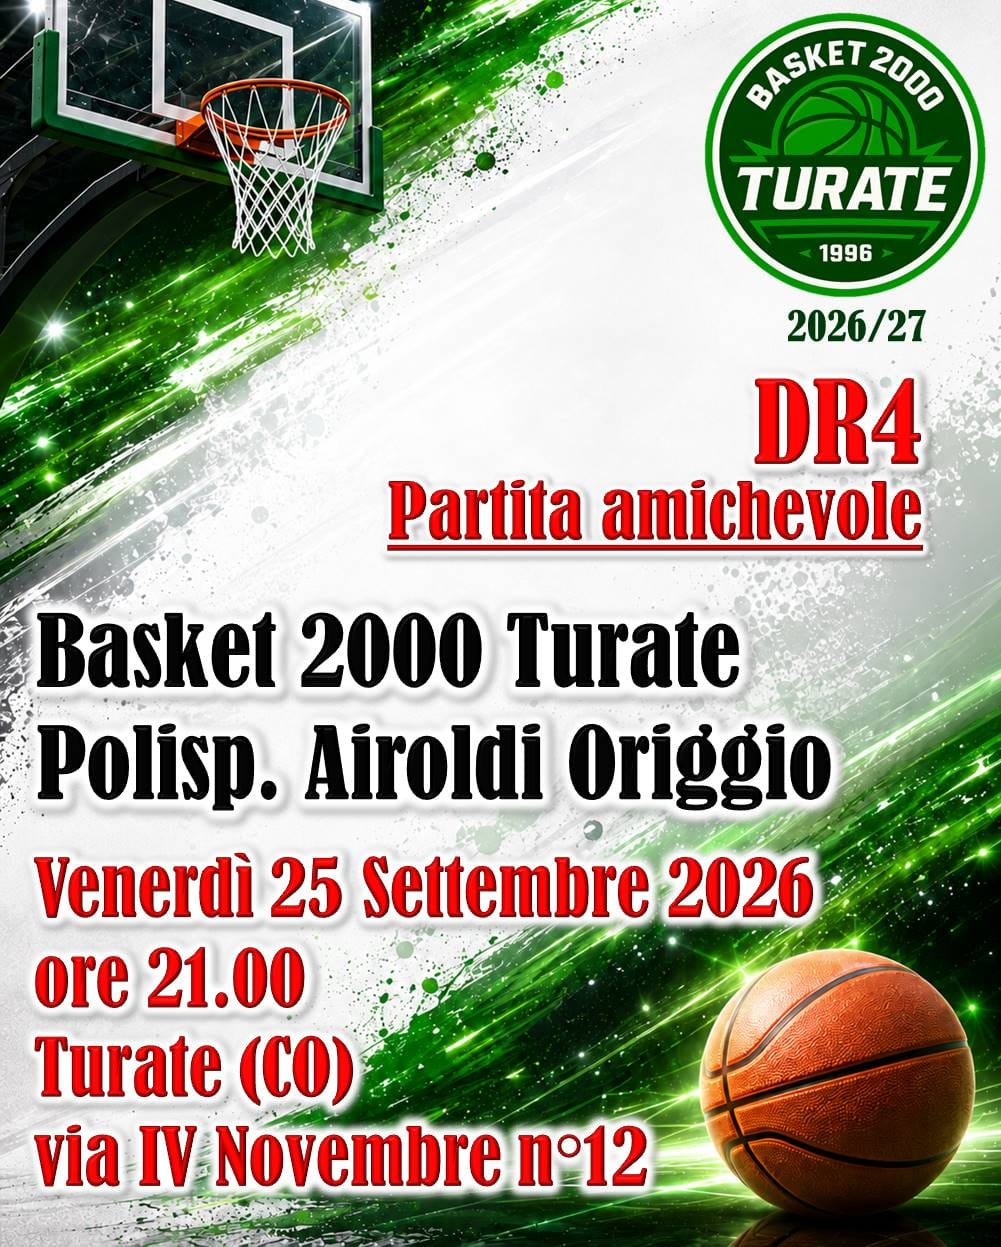
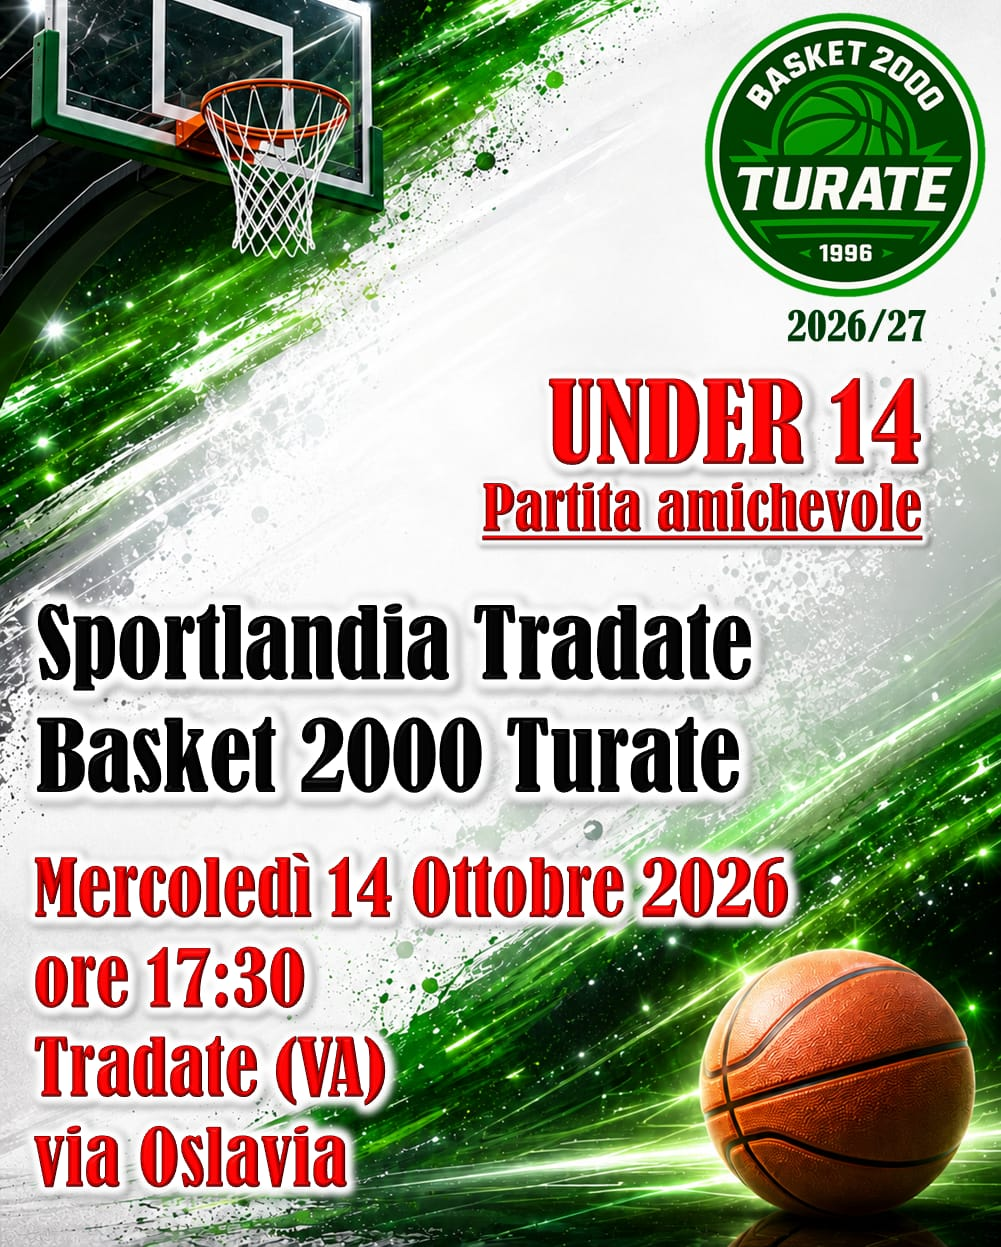
aggiornato

Changed region(s): [[0.031, 0.4571, 0.8671, 0.9751], [0.3716, 0.3047, 0.9291, 0.4571], [0.031, 0.9142, 0.0619, 0.9447]]

diff --git a/index.html b/index.html
@@ -17,8 +17,6 @@
 <link rel="stylesheet" href="./css/styles.css?v=2">
 </head>
 <body>
-    <div id="fb-root"></div>
-    <script async defer crossorigin="anonymous" src="https://connect.facebook.net/it_IT/sdk.js#xfbml=1&version=v22.0"></script>
 
     <!--_______________________________________Header___________________________-->
 
@@ -244,27 +242,6 @@ basata su socializzazione, rispetto reciproco.</p>
                 </div>
             </section>
 
-             <!--_____________________________ sezione partner_______________________________________________-->
-           <section class="partners">
-            <div class="container partners-container">
-                <h2 class="partners-title ">I Nostri Sponsor</h2>
-                
-           <ul class="list partners-list">
-            <li class="partner-item"><a class="link partner-link" href="https://www.eugindistilleria.it/" target="_blank" rel="noreferrer noopener"><img loading="lazy" src="./imgs/sponsor/eugin-1.jpg" alt="eugin" width="370"></a></li>
-            <li class="partner-item"><a class="link partner-link" href="https://www.valsisrl.it/" target="_blank" rel="noreferrer noopener"><img loading="lazy" src="./imgs/sponsor/cropped-VALSI_logo.jpeg" alt="valsi" width="370"></a></li>
-            <li class="partner-item"><a class="link partner-link" href="https://seventeenpub.eatbu.com/?lang=it" target="_blank" rel="noreferrer noopener"><img loading="lazy" src="./imgs/sponsor/seventeen-pub-1-300x160.jpg" alt="seventeen-pub" width="370"></a></li>
-            <li class="partner-item"><a class="link partner-link" href="https://www.studio-odontikos.it/" target="_blank" rel="noreferrer noopener"><img loading="lazy" src="./imgs/sponsor/odontikos-1.jpeg" alt="odontikos" width="370"></a></li>
-            <li class="partner-item"><a class="link partner-link" href="https://agenzie.axa.it/caronnopertusella1603" target="_blank" rel="noreferrer noopener"><img loading="lazy" src="./imgs/sponsor/LM-3.jpeg" alt="LM" width="370"></a></li>
-            <li class="partner-item"><a class="link partner-link" href="https://www.goccedicolore.net/" target="_blank" rel="noreferrer noopener"><img loading="lazy" src="./imgs/sponsor/gocce-di-colore-1-300x156.jpg" alt="gocce-di-colore" width="370"></a></li>
-            <li class="partner-item"><a class="link partner-link" href="https://www.logopedistagisellafloris.it/" target="_blank" rel="noreferrer noopener"><img loading="lazy" src="./imgs/sponsor/floris-gisella-1.jpeg" alt="floris-gisella" width="370"></a></li>
-            <li class="partner-item"><a class="link partner-link" href="https://www.af-network.it/" target="_blank" rel="noreferrer noopener"><img loading="lazy" src="./imgs/sponsor/af-network.jpg" alt="af-network" width="370"></a></li>
-            <li class="partner-item"><a class="link partner-link" href="https://www.instagram.com/blackstar_parrucchiere/" target="_blank" rel="noreferrer noopener"><img loading="lazy" src="./imgs/sponsor/blackstar.jpeg" alt="blackstar" width="370"></a></li>
-            <li class="partner-item"><a class="link partner-link" href="https://www.pasticceriavisconti.it/" target="_blank" rel="noreferrer noopener"><img loading="lazy" src="./imgs/sponsor/visconti.jpg" alt="VISCONTI" width="370"></a></li>
-            <li class="partner-item"><a class="link partner-link" href="https://www.facebook.com/PablonatalePC/" target="_blank" rel="noreferrer noopener"><img loading="lazy" src="./imgs/sponsor/MALEDETTOPC-1-300x150.jpg" alt="MALEDETTOPC" width="370"></a></li>
-           </ul>
-           
-            </div>
-           </section>
            <!--_____________________________ sezione solidarietà / onlus _______________________________________________-->
            <section class="sociale-section">
             <div class="container sociale-container">
@@ -283,34 +260,24 @@ basata su socializzazione, rispetto reciproco.</p>
             </div>
            </section>
            <!--____________________________________sezione news____________________________________-->
+           <!--____________________________________sezione news / facebook____________________________________-->
+           <!--____________________________________sezione news / facebook iframe____________________________________-->
            <section class="news">
             <div class="container news-container">
-                <!--
-               <h2 class="title-diretta">Diretta</h2>
-                <iframe width="1200" height="600" src="https://www.youtube.com/embed/AFAtm-CTVvg?si=jdJ0gRqHy1oSqgB6" title="YouTube video player" frameborder="0" allow="accelerometer; autoplay; clipboard-write; encrypted-media; gyroscope; picture-in-picture; web-share" referrerpolicy="strict-origin-when-cross-origin" allowfullscreen></iframe>-->
                   <h2 class="title-facebook">Seguici su Facebook</h2>
                   <div class="fb-wrapper">
-                      <div class="fb-page" 
-                           data-href="https://www.facebook.com/basket2000turate" 
-                           data-tabs="timeline" 
-                           data-width="" 
-                           data-height="600" 
-                           data-small-header="false" 
-                           data-adapt-container-width="true" 
-                           data-hide-cover="false" 
-                           data-show-facepile="true">
-                          <blockquote cite="https://www.facebook.com/basket2000turate" class="fb-xfbml-parse-ignore">
-                              <a href="https://www.facebook.com/basket2000turate" target="_blank" rel="noreferrer noopener">Basket 2000 Turate su Facebook</a>
-                          </blockquote>
-                      </div>
+                      <iframe src="https://www.facebook.com/plugins/page.php?href=https%3A%2F%2Fwww.facebook.com%2Fbasket2000turate&tabs=timeline&width=500&height=650&small_header=false&adapt_container_width=true&hide_cover=false&show_facepile=true&appId"
+                              width="500"
+                              height="650"
+                              style="border:none;overflow:hidden;width:100%;max-width:500px;min-height:650px;"
+                              scrolling="no"
+                              frameborder="0"
+                              allowfullscreen="true"
+                              allow="autoplay; clipboard-write; encrypted-media; picture-in-picture; web-share">
+                      </iframe>
                   </div>
-                 <!--<h2 class="title-magazine ">il Magazine</h2>
-               <iframe  src="./docs/MAGAZINE 14.pdf"
-                            width="1200" 
-                            height="600" 
-                            style="border: none;"></iframe>-->
             </div>
-                        </section>
+           </section>
            
            <!--_____________________________ sezione squadre_______________________________________________-->
             <section class="squadre-section">

diff --git a/eventi.html b/eventi.html
@@ -231,60 +231,53 @@
                 <div class="container partite-div">
                     <h2 class="games-title ">PROSSIME PARTITE</h2>
                 <ul class="list list-games">
-<!--<li class="game"><img loading="lazy" src="./imgs/prossime-partite/1.jpeg" alt="Partita" width="370"></li>
+                    <li class="game"><img loading="lazy" src="./imgs/prossime-partite/1.jpeg" alt="Partita" width="370"></li>
                     <li class="game"><img loading="lazy" src="./imgs/prossime-partite/2.jpeg" alt="Partita" width="370"></li>
-                    <li class="game"><img loading="lazy" src="./imgs/prossime-partite/3.jpeg" alt="Partita" width="370"></li>
+                    <!--<li class="game"><img loading="lazy" src="./imgs/prossime-partite/3.jpeg" alt="Partita" width="370"></li>
                     <li class="game"><img loading="lazy" src="./imgs/prossime-partite/4.jpeg" alt="Partita" width="370"></li>
                     <li class="game"><img loading="lazy" src="./imgs/prossime-partite/5.jpeg" alt="Partita" width="370"></li>
                     <li class="game"><img loading="lazy" src="./imgs/prossime-partite/6.jpeg" alt="Partita" width="370"></li>-->
                 </ul>
             </div>
              </section>
-            <section class="event-section">
+           <section class="event-section">
                 <div class="container event-container">
                     <h2>EVENTI</h2>
                 <h3 class="text-eventi">I nostri atleti partecipano a diversi eventi</h3>
 
                 <ul class="list list-eventi">
                     <li class="event-item">
-                        <h3 class="text-eventi">Torneo Under 13</h3>
-                        <img loading="lazy" class="img-eventi" src="./imgs/prossime-partite/torneo-under13.jpeg" alt="Torneo Under 13">
+                        <h3 class="text-eventi">Torneo Under 14</h3>
+                        <img loading="lazy" class="img-eventi" src="./imgs/prossime-partite/Under14.jpeg" alt="Torneo Under 14">
                     </li>
                     
                     <li class="event-item">
-                        <h3 class="text-eventi">Torneo Dell'amicizia</h3>
-                        <img loading="lazy" class="img-eventi" src="./imgs/galleria/torneo-amicizia.jpeg" alt="Torneo Dell'amicizia">
-                        <div class="video-container">
-                            <iframe loading="lazy" src="https://www.youtube.com/embed/hL1a5YcWTzQ?si=mamXu-UOz8vEhg7b" title="YouTube video player" frameborder="0" allow="accelerometer; autoplay; clipboard-write; encrypted-media; gyroscope; picture-in-picture; web-share" referrerpolicy="strict-origin-when-cross-origin" allowfullscreen></iframe>
-                        </div>
-                    </li>
-                    <li class="event-item">
+                        <h3 class="text-eventi">Esordienti</h3>
+                        <img loading="lazy" class="img-eventi" src="./imgs/prossime-partite/esordientiamani.jpeg" alt="Torneo Dell'amicizia">
+                     </li>
+                     <!--<li class="event-item">
                         <h3 class="text-eventi">Amichevole con Olgiate Comasco</h3>
                         <img loading="lazy" class="img-eventi" src="./imgs/galleria/amichevole-olgiate.jpeg" alt="Amichevole Olgiate">
                         <div class="video-container">
                             <iframe loading="lazy" src="https://www.youtube.com/embed/sYLUscihLkE?si=r92ZYfGq-l8dC0XP" title="YouTube video player" frameborder="0" allow="accelerometer; autoplay; clipboard-write; encrypted-media; gyroscope; picture-in-picture; web-share" referrerpolicy="strict-origin-when-cross-origin" allowfullscreen></iframe>
                         </div>
                     </li>
-                    <li class="event-item">
-                        <h3 class="text-eventi">Invito per la partita di Varese</h3>
-                        <img loading="lazy" class="img-eventi" src="./imgs/galleria/partitavarese.jpeg" alt="Invito Varese">
-                    </li>
-                </ul>
+                     </ul>
                 </div>
                 
-            </section>
+            </section>-->
             <!--_____________________________ sezione galleria_______________________________________________-->
            <section class="galleria-section">
             <div class="container">
             <h2 class="galleria-title "> Momenti Memorabili</h2>
             <ul class="list galleria">
-                <li class="foto"><img loading="lazy" src="./imgs/galleria/DSC_0002.jpg" alt="Cari Amici" height="470"></li>
-                <li class="foto"><img loading="lazy" src="./imgs/galleria/DSC_0033.jpg" alt="Bambini e babo natale" width="530"></li>
-                <li class="foto"><img loading="lazy" src="./imgs/galleria/DSC_0035.jpg" alt="bambini con caramelle" height="470"></li>
-                <li class="foto"><img loading="lazy" src="./imgs/galleria/DSC_0041.jpg" alt="bambini tifano" width="430"></li>
-                <li class="foto"><img loading="lazy" src="./imgs/galleria/DSC_0053.jpg" alt="regali" height="370"></li>
-                <li class="foto"><img loading="lazy" src="./imgs/galleria/DSC_0057.jpg" alt="premie di lotterie" width="430"></li>
-                <li class="foto"><img loading="lazy" src="./imgs/galleria/torneo-amicizia-turate.jpg" alt="torneo-amicizia-turate" width="530"></li>
+                <li class="foto"><img loading="lazy" src="./imgs/galleria/DSC02121.webp" alt="Cari Amici" height="470"></li>
+                <li class="foto"><img loading="lazy" src="./imgs/galleria/DSC02205.webp" alt="Bambini e babo natale" width="530"></li>
+                <li class="foto"><img loading="lazy" src="./imgs/galleria/DSC02206.webp" alt="bambini con caramelle" height="470"></li>
+                <li class="foto"><img loading="lazy" src="./imgs/galleria/DSC02207.webp" alt="bambini tifano" width="430"></li>
+                <li class="foto"><img loading="lazy" src="./imgs/galleria/DSC02208.webp" alt="regali" height="370"></li>
+                <li class="foto"><img loading="lazy" src="./imgs/galleria/DSC02237.webp" alt="premie di lotterie" width="430"></li>
+                
             </ul>
             </section>
              </main>

diff --git a/dr4.html b/dr4.html
@@ -370,7 +370,7 @@
                             Per date e orari consulta calendari <a class="link" href="./risultati.html">clicca qui 📅</a>
                         </p>
             <div class="div-btn">
-                    <a href="https://fip.it/risultati/?group=campionati-regionali&regione_codice=LO&comitato_codice=PVA&sesso=M&codice_campionato=1DM&codice_fase=1&codice_girone=75199" target="_blank" rel="noreferrer noopener" class="link button classifica-btn">Classifica</a>
+                    <a href="https://fip.it/risultati/?group=campionati-regionali&regione_codice=LO&comitato_codice=PVA&sesso=M&codice_campionato=2DM&codice_fase=1&codice_girone=85811" target="_blank" rel="noreferrer noopener" class="link button classifica-btn">Classifica</a>
                 </div>
                 </div>
             </section>

diff --git a/under18.html b/under18.html
@@ -330,7 +330,7 @@
                             Per date e orari consulta calendari <a class="link" href="./risultati.html">clicca qui 📅</a>
                         </p>
             <div class="div-btn">
-                    <a href="https://gestionalepallacanestro.uisp.it/App/Calendario/Varese/Misto/Under17/SecondaFase/OROLOGIO" target="_blank" rel="noreferrer noopener" class="link button classifica-btn">Classifica</a>
+                    <a href="https://gestionalepallacanestro.uisp.it/Varese/7/111" target="_blank" rel="noreferrer noopener" class="link button classifica-btn">Classifica</a>
                 </div>
                 </div>
             </section>

diff --git a/css/styles.css b/css/styles.css
@@ -1,4 +1,4 @@
-:root {
+:root {
     --brand-color: rgb(0, 128, 0);
     --second-brand-color: rgb(255, 255, 255);
     --dark-color: #212121;
@@ -1707,7 +1707,7 @@ img {
     margin-left: auto;
     margin-right: auto;
     margin-bottom: 20px;
-    max-width: 100%;
+    max-width: 50%;
     height: auto;
     border-radius: 16px;
     box-shadow: var(--box-shadow);
